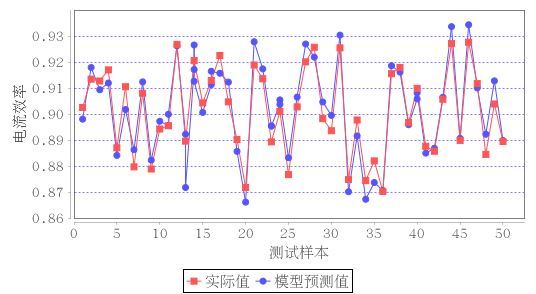
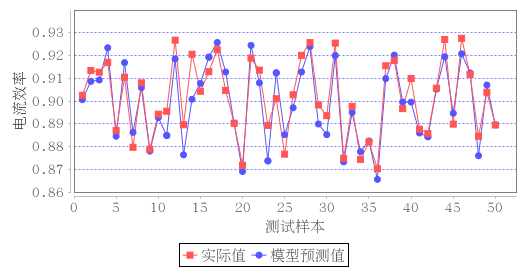
update model test plot

Changed region(s): [[0.0, 0.0299, 1.0, 1.0]]

diff --git a/chart/src/main/java/dc/ModelPlot.java b/chart/src/main/java/dc/ModelPlot.java
@@ -132,7 +132,7 @@ public class ModelPlot {
 			if(!medium1.containsKey(key)&&medium1.size()<0.06*count){
 				medium1.put(key, plain[key]);
 				
-			}else if(!good1.containsKey(key)&&good1.size()<0.1*count){
+			}else if(!medium1.containsKey(key)&&!good1.containsKey(key)&&good1.size()<0.1*count){
 				good1.put(key, plain[key]);
 			}
 		}
@@ -141,35 +141,30 @@ public class ModelPlot {
 				best1.put(i, plain[i]);
 			}
 		}
-	
+		System.out.println(best1.size()+"  "+good1.size()+"  "+medium1.size());
 		
 		for(int i=0; i<plain.length; i++){
 			double value = plain[i];
-			if(rand.nextBoolean()){
-				value *= rand.nextDouble()/100;
-			}else{
-				value *= -rand.nextDouble()/100;
-			}
-			third.add(i+1,plain[i]+value);
-		}
-		for(int i=0; i<plain.length; i++){
-			if(good1.containsKey(i)){
-				double value = plain[i];
-				if(rand.nextBoolean()){
-					value *= 1.8*rand.nextDouble()/100;
-				}else{
-					value *= -1.8*rand.nextDouble()/100;
-				}
-				third.add(i+1,plain[i]+value);
-			}
-		}
-		for(int i=0; i<plain.length; i++){
 			if(medium1.containsKey(i)){
-				double value = plain[i];
-				value *= -3*rand.nextDouble()/100;
-				third.add(i+1,plain[i]+value);
+				value *= -5*rand.nextDouble()/100;
+			}else if(good1.containsKey(i)){
+				if(rand.nextBoolean()){
+					value *= 2*rand.nextDouble()/100;
+				}else{
+					value *= -2*rand.nextDouble()/100;
+				}
+				third.addOrUpdate(i+1,plain[i]+value);
+			}else{
+				if(rand.nextBoolean()){
+					value *= rand.nextDouble()/100;
+				}else{
+					value *= -rand.nextDouble()/100;
+				}
 			}
+			
+			third.addOrUpdate(i+1,plain[i]+value);
 		}
+		
 		dataset.addSeries(third);
 		return dataset;
 	}
